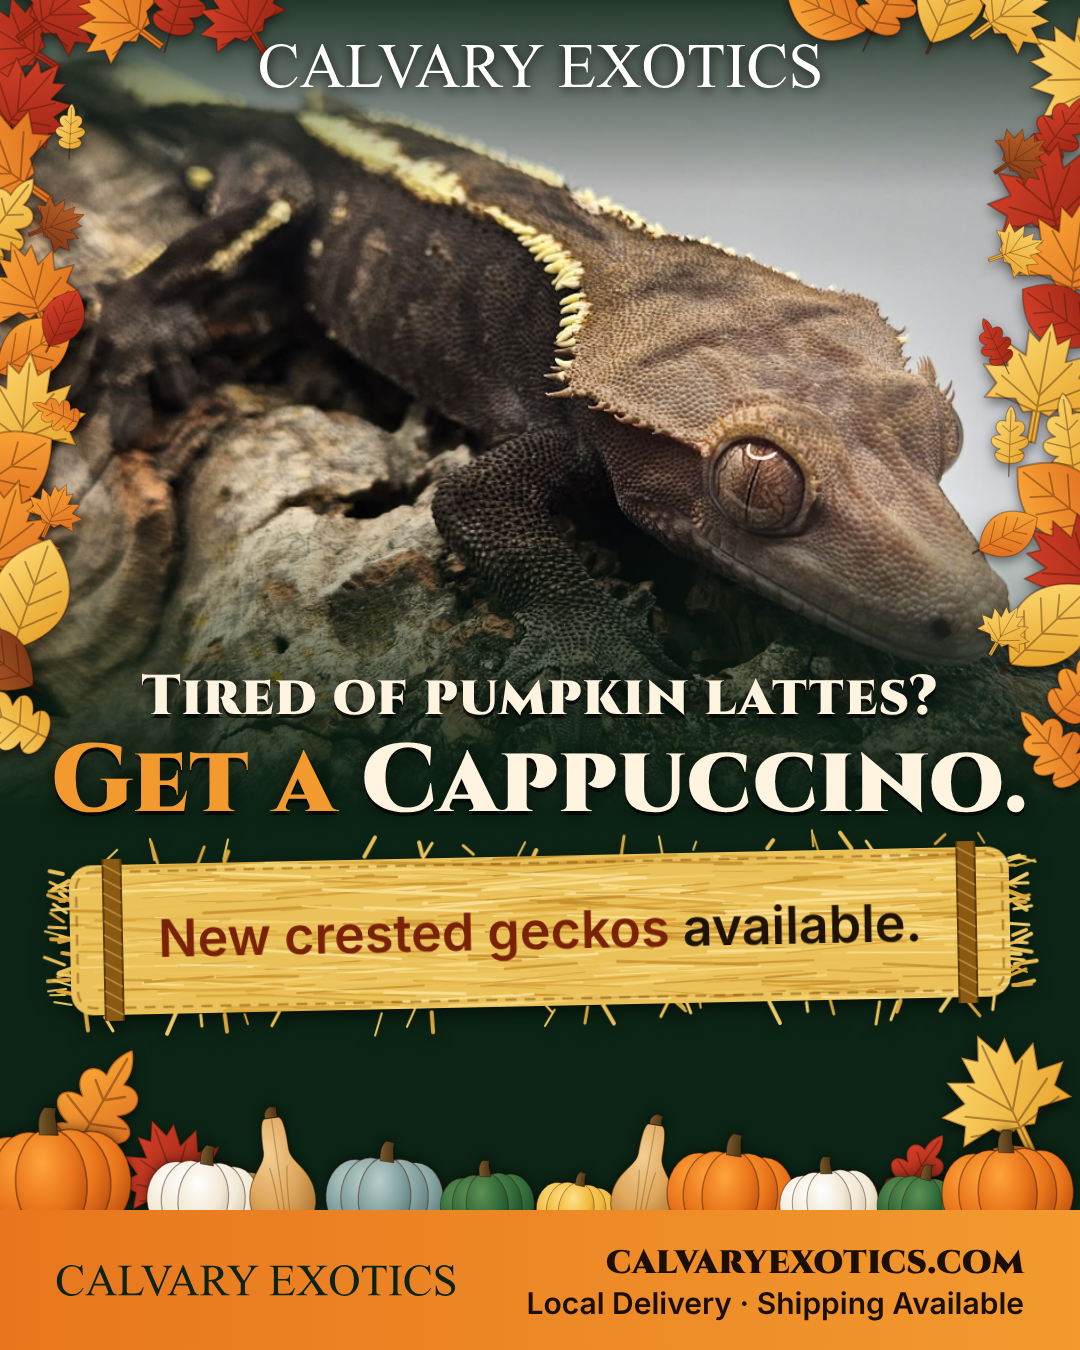
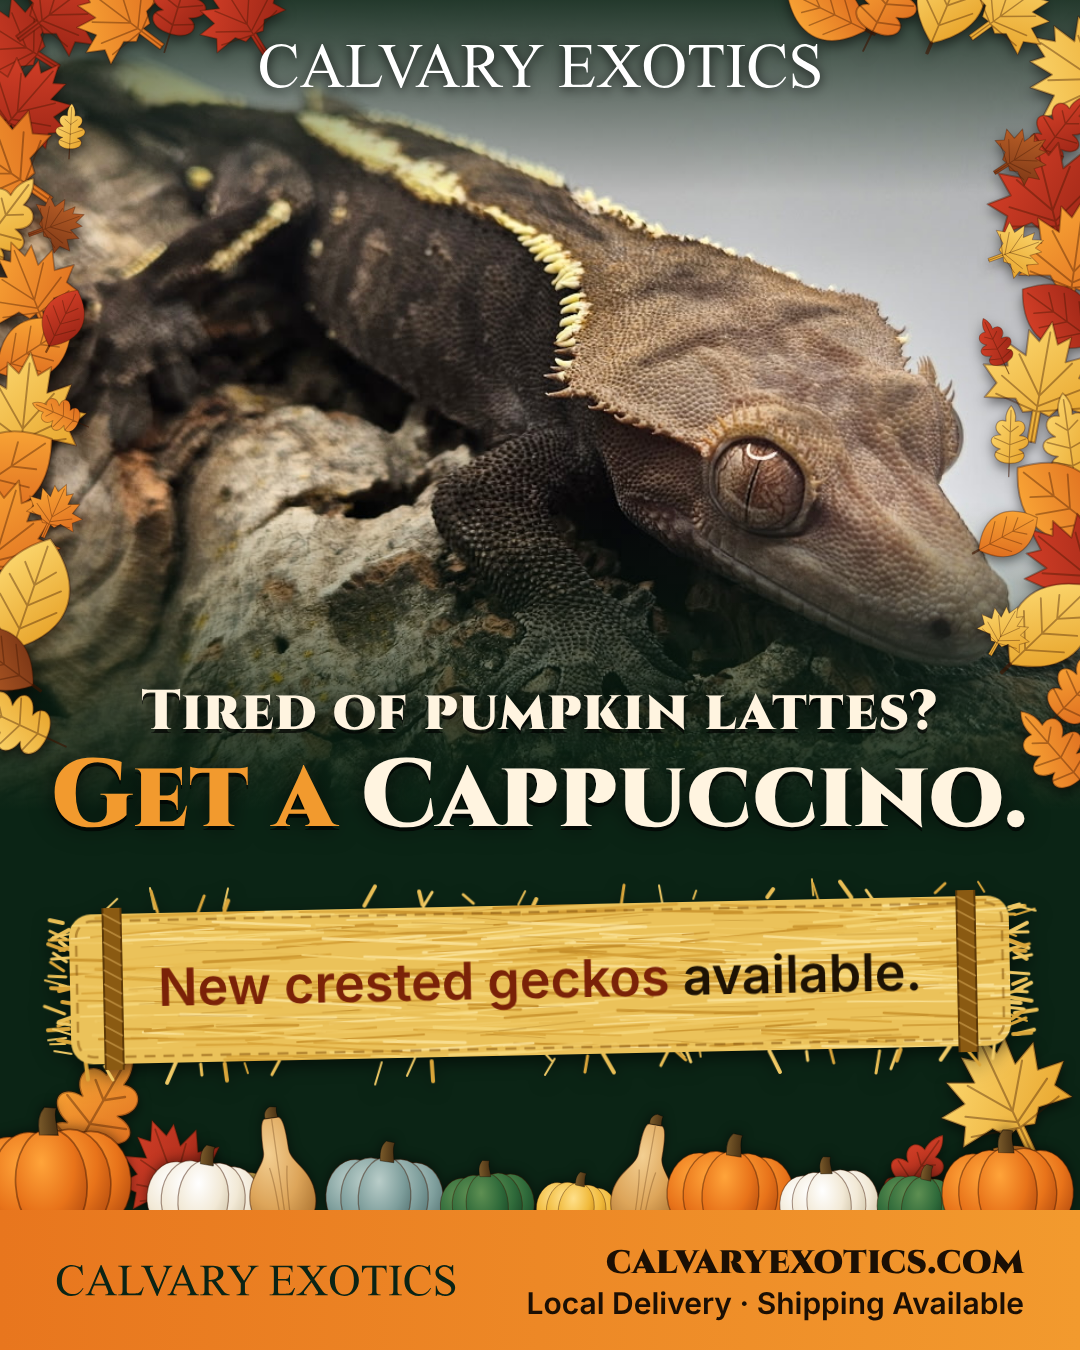
Ad 2: rebalance spacing after removing caption
Claude-Session: https://claude.ai/code/session_01MTEoVmbNfKHYX384wUKzCJ

Changed region(s): [[0.0306, 0.4978, 0.9778, 0.8089]]

diff --git a/marketing/facebook-ad-2.html b/marketing/facebook-ad-2.html
@@ -11,13 +11,13 @@ body{width:1080px;height:1350px;background:var(--deep);font-family:Inter,sans-se
 .logo{position:absolute;top:44px;left:50%;transform:translateX(-50%);width:560px;z-index:3;filter:drop-shadow(0 2px 6px rgba(0,0,0,.8))}
 .leaves{position:absolute;left:0;top:0;z-index:2}
 .pumpkins{position:absolute;left:0;top:0;z-index:3}
-.panel{position:absolute;left:0;right:0;top:655px;text-align:center;z-index:3;padding:0 40px}
+.panel{position:absolute;left:0;right:0;top:670px;text-align:center;z-index:3;padding:0 40px}
 .eyebrow{font-weight:600;font-size:25px;letter-spacing:.13em;text-transform:uppercase;color:#FFD98A;text-shadow:0 2px 8px #000c,0 0 3px #000}
 .cap{font-weight:600;font-size:30px;color:#FFD98A;margin-top:6px;text-shadow:0 2px 8px #000c}
 h1{font-family:Cinzel;font-weight:900;font-size:96px;line-height:1.02;margin:14px 0 6px;color:var(--pumpkin);text-shadow:0 4px 0 #000a,0 0 24px #000a;letter-spacing:.01em;white-space:nowrap}
 h1 span{color:var(--cream)}
 h1 small{display:block;font-size:56px;color:var(--cream);margin-bottom:8px;letter-spacing:.02em}
-.hay{position:relative;display:inline-block;width:940px;height:150px;margin-top:18px;transform:rotate(-1.2deg);filter:drop-shadow(0 6px 8px rgba(0,0,0,.55))}
+.hay{position:relative;display:inline-block;width:940px;height:150px;margin-top:52px;transform:rotate(-1.2deg);filter:drop-shadow(0 6px 8px rgba(0,0,0,.55))}
 .haybg{position:absolute;left:-20px;top:-20px;width:980px;height:190px;overflow:visible}
 .hay p{position:relative;z-index:2;height:150px;line-height:150px;text-align:center;font-weight:600;color:#1d1204;font-size:52px;white-space:nowrap}
 .hay b{color:#7A2208}

diff --git a/marketing/build_ads.py b/marketing/build_ads.py
@@ -136,7 +136,7 @@ ADS = {
     'facebook-ad': dict(H=1350, PH=810, ctaTop=1210, base=1236, logoY=44, panelTop=655, side_max=760, hayMt=18, img='harley_1.jpg', pos='60% 40%', excl=[(80, 420, 120, 440)],
                         eyebrow='Welcoming the next generation of keepers', h1='Have <span>Morph Fun</span><br>This Fall!', h1fs=100, cap='',
                         hay='We have <b>new amazing geckos</b> available.', hayFs=42),
-    'facebook-ad-2': dict(H=1350, PH=810, ctaTop=1210, base=1236, logoY=44, panelTop=655, side_max=760, hayMt=18, img='cappuccino_1.jpg', pos='50% 52%', excl=[(60, 320, 440, 640)],
+    'facebook-ad-2': dict(H=1350, PH=810, ctaTop=1210, base=1236, logoY=44, panelTop=670, side_max=760, hayMt=52, img='cappuccino_1.jpg', pos='50% 52%', excl=[(60, 320, 440, 640)],
                           eyebrow='', h1='<small>Tired of pumpkin lattes?</small>Get a <span>Cappuccino.</span>', h1fs=96, cap='',
                           hay='<b>New crested geckos</b> available.', hayFs=52),
 }
